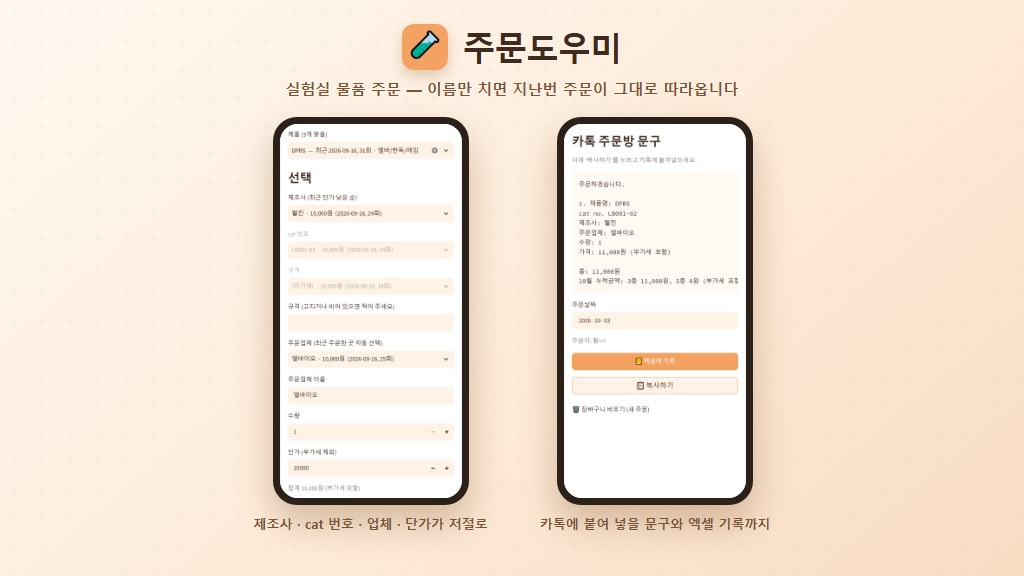
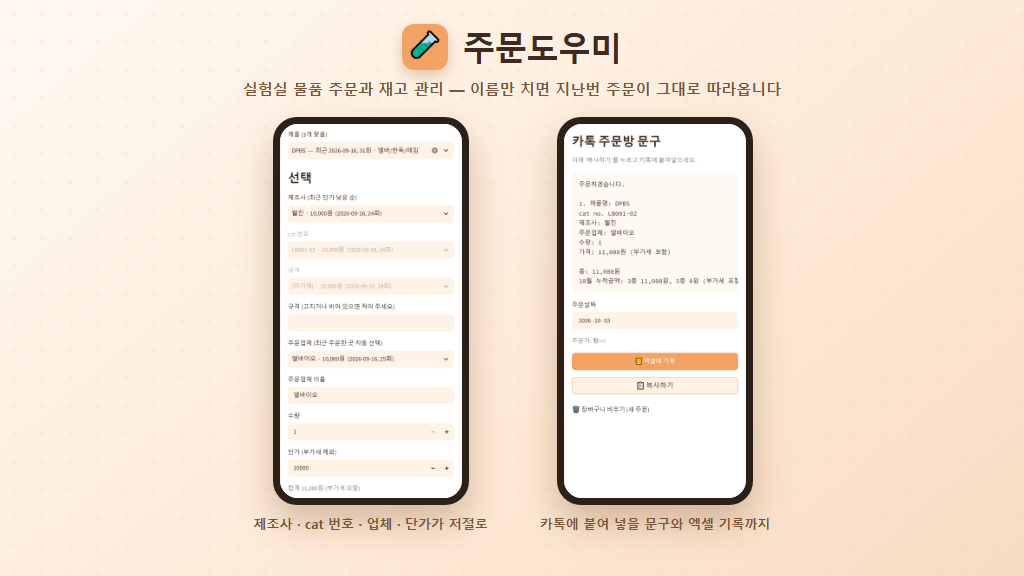
feat: 주문도우미 — 재고 관리를 제 몫으로 올렸다
'입고 체크' 가 이 앱의 재고 관리라는 것을 듣고, 한 문단으로 흘려 쓴 것을
절로 세웠다. 주문한 뒤부터 물건이 도착할 때까지가 실제로 사고가 나는
구간이고, 이 화면이 그 구간을 맡는다.

- 미입고 건수가 첫 화면 버튼에 늘 박혀 있다
- 최근 90일 안에 입고 날짜가 빈 물품만 모인다 (층별로 거를 수 있다)
- 한 번에 체크하면 엑셀의 입고 날짜가 그 자리에서 채워진다

요약·태그·썸네일 부제에도 재고 관리를 넣었다.

Claude-Session: https://claude.ai/code/session_0133kr55Mo1BCizYggNfNGzi

Changed region(s): [[0.25, 0.125, 0.75, 0.1875]]

diff --git a/content/projects/ordertool.md b/content/projects/ordertool.md
@@ -1,8 +1,8 @@
 ---
 title: 주문도우미 (Order Tool)
 slug: ordertool
-summary: 실험실 물품 주문을 폰에서 끝내는 앱. 제품 이름만 치면 지난번에 어디서 얼마에 샀는지가 그대로 따라오고, 카톡 주문방에 붙여 넣을 문구와 엑셀 기록까지 한 번에 만들어 줍니다.
-tags: [웹앱, PWA, Streamlit, 업무 도구, 엑셀 연동]
+summary: 실험실 물품 주문과 재고 관리를 폰에서 끝내는 앱. 제품 이름만 치면 지난번에 어디서 얼마에 샀는지가 그대로 따라오고, 카톡 주문방 문구와 엑셀 기록, 아직 안 들어온 물품 확인까지 한곳에서 합니다.
+tags: [웹앱, PWA, Streamlit, 업무 도구, 재고 관리, 엑셀 연동]
 stack: [Streamlit, PWA, GitHub Pages, 서비스 워커, Excel]
 date: 2026-10-01
 featured: true
@@ -61,11 +61,18 @@ cat no. LB001-02
 
 **엑셀에 기록** 을 누르면 주문한 내용이 장부에 그대로 들어갑니다. 층, 주문자, 비고처럼 **장부에만 필요하고 카톡 문구에는 들어가면 곤란한 것**은 따로 구분해 두었습니다.
 
-## 들어왔는지 확인하는 것까지
+## 재고 관리 — 주문하고 끝이 아닙니다
 
-주문하고 나면 다음 숙제가 생깁니다 — **이거 들어왔나?**
+실험실에서 사고가 나는 자리는 주문하는 순간이 아니라 **주문한 뒤부터 물건이 도착할 때까지**입니다. 주문한 걸 잊고 또 주문하거나, 반대로 들어오지 않은 줄 모르고 기다리다가 실험 당일에 없는 것을 발견합니다. 주문서는 엑셀에 있고, 택배는 복도에 쌓이고, 기억은 사람 머릿속에 있으니까요.
 
-**입고 체크** 를 누르면, 주문도우미로 주문한 것 중 **최근 90일 안에 입고 날짜가 비어 있는 물품만** 모여 나옵니다. 택배를 풀면서 들어온 것을 체크하고 맨 아래에서 한 번 확인하면, 엑셀의 입고 날짜가 채워집니다.
+그래서 **아직 안 들어온 물품만 따로 모아 보는 화면**을 뒀습니다.
+
+- **몇 개가 떠 있는지 늘 보입니다** — 첫 화면 맨 위의 `📦 입고 체크 (미입고 3건)` 처럼 **건수가 버튼에 박혀 있습니다.** 열어보지 않아도 지금 기다리는 물건이 있는지 알 수 있습니다
+- **안 들어온 것만 모입니다** — 주문도우미로 주문한 것 중 **최근 90일 안에 입고 날짜가 비어 있는** 물품만 나옵니다. 이미 받은 것은 저절로 목록에서 빠집니다
+- **층별로 걸러 봅니다** — 전체 / 3층 / 5층. 택배를 푸는 사람은 자기 층만 보면 됩니다
+- **한 번에 체크합니다** — 상자를 풀면서 들어온 것을 전부 체크하고 맨 아래에서 확인하면, **엑셀의 입고 날짜가 그 자리에서 채워집니다.** 장부를 따로 열 일이 없습니다
+
+기다리는 게 하나도 없으면 `아직 안 들어온 물품이 없어요 👍` 한 줄만 뜹니다. **"이거 주문했던가" 를 사람 기억이 아니라 장부가 대신 답하게 만든 부분**입니다.
 
 ## 계정을 만들지 않습니다
 
